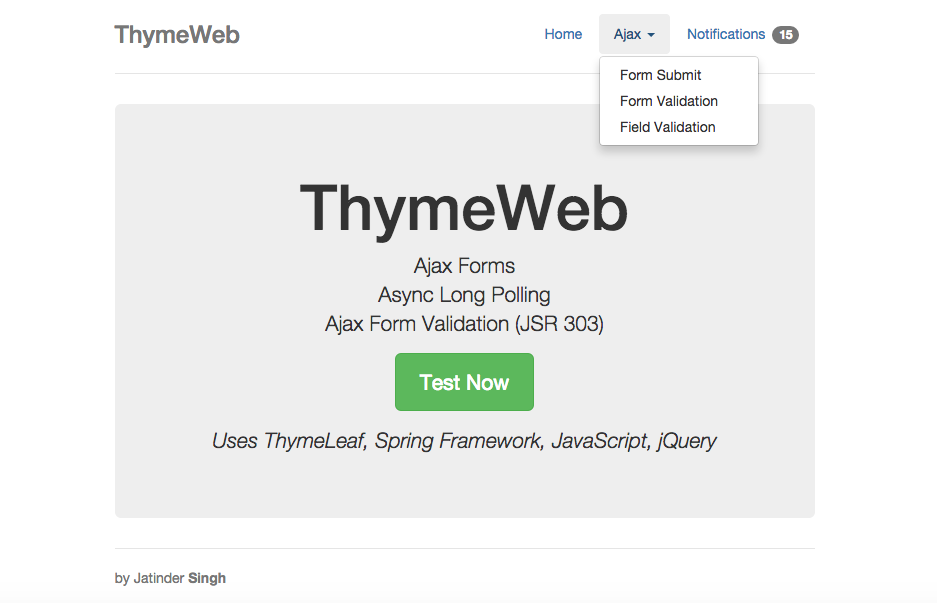
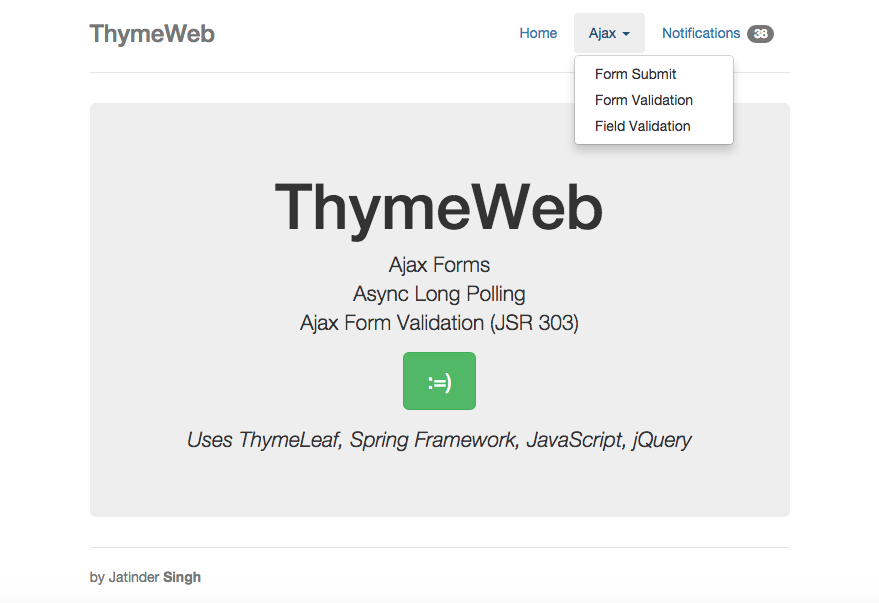
Minor changes

diff --git a/thyme-web/src/main/webapp/WEB-INF/templates/index.html b/thyme-web/src/main/webapp/WEB-INF/templates/index.html
@@ -21,7 +21,7 @@
     <div class="jumbotron">
         <h1>ThymeWeb</h1>
         <p class="lead">Ajax Forms<br/>Async Long Polling<br/>Ajax Form Validation (JSR 303)</p>
-        <p><a class="btn btn-lg btn-success" href="/ajax" th:href="@{/ajax}" role="button">Test Now</a></p>
+        <p><a class="btn btn-lg btn-success" href="/ajax-form-submit.html" th:href="@{/ajax-form-submit.html}" role="button">:=)</a></p>
         <p class="lead"><em>Uses ThymeLeaf, Spring Framework, JavaScript, jQuery</em></p>
     </div>
 
